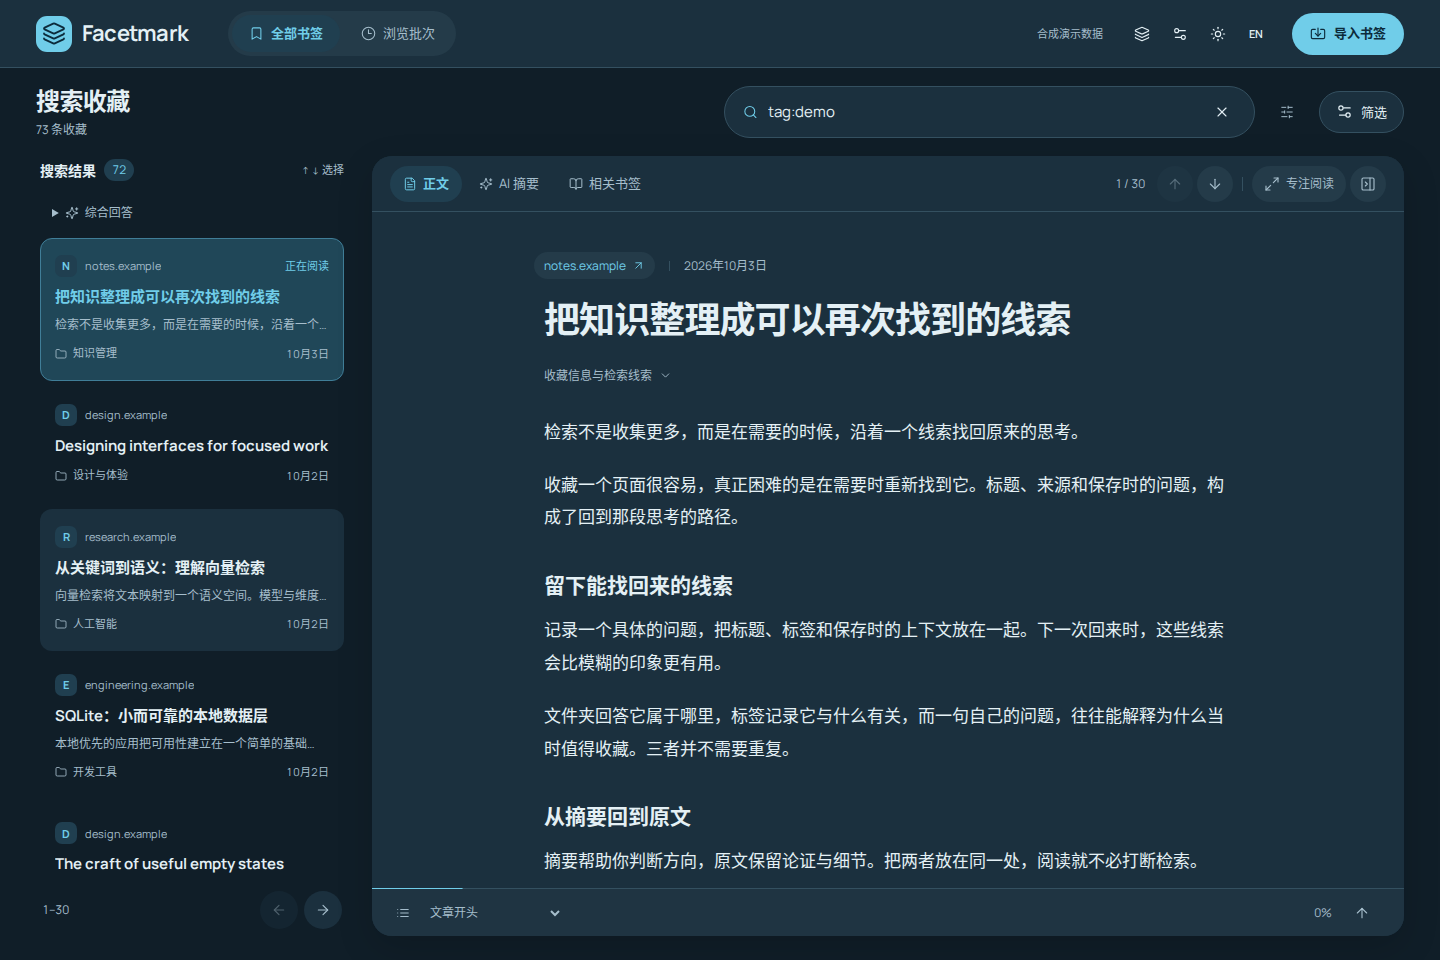
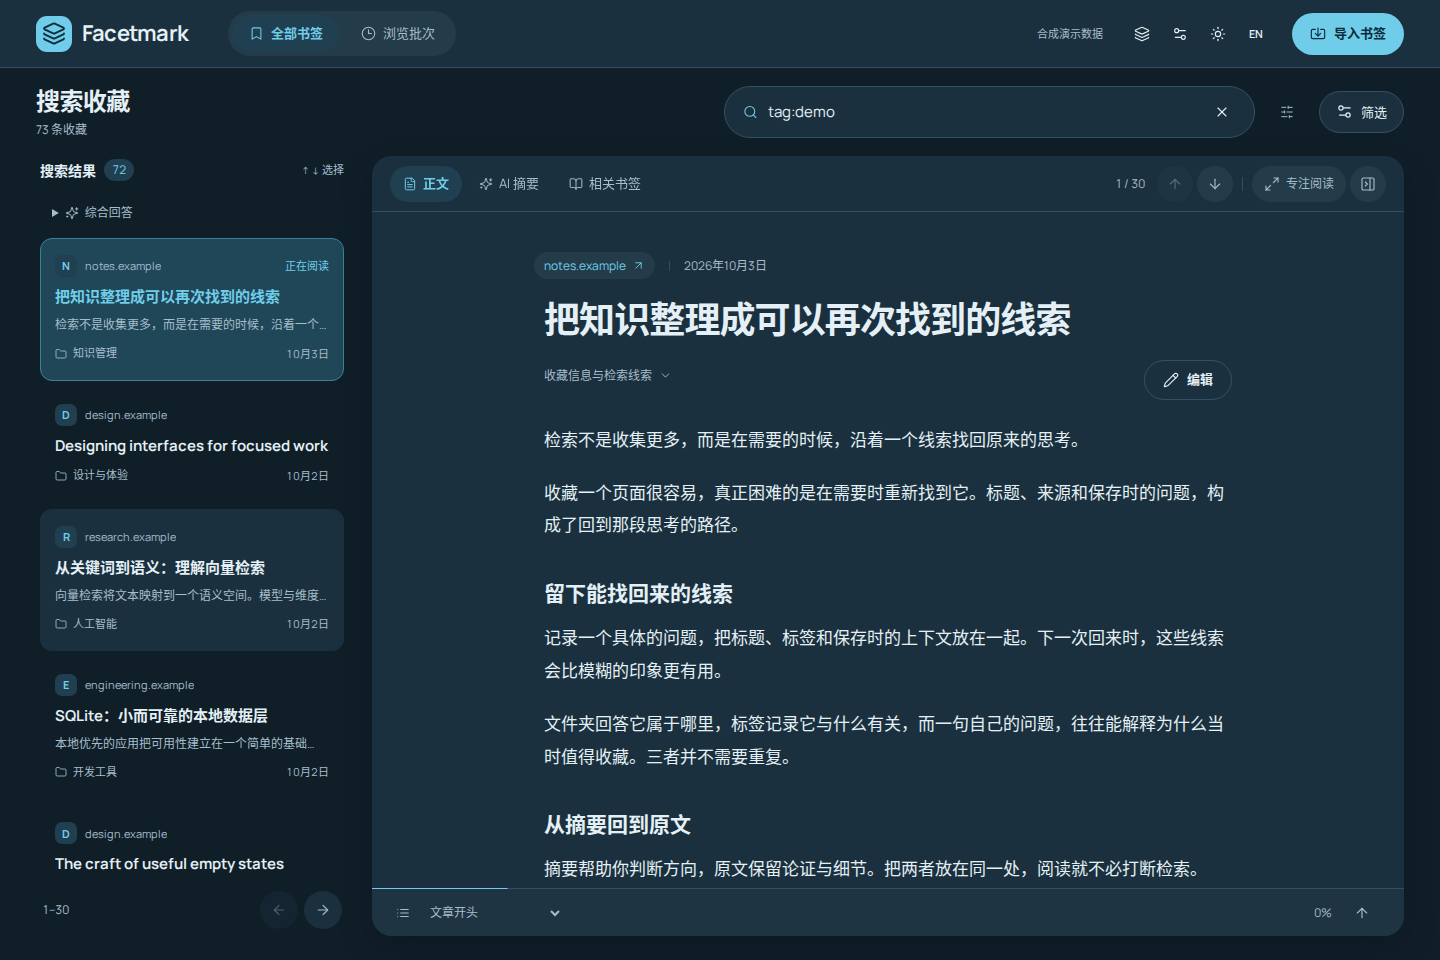
docs: finalize library and sync delivery evidence [skip ci]

diff --git a/docs/desktop-validation.md b/docs/desktop-validation.md
@@ -1,6 +1,97 @@
 # Desktop experience validation
 
-## 2026-10-07: collection and focused-reading redesign (current)
+## 2026-10-08: collection management, reading tasks and shared-folder sync (current)
+
+Application source: `33ff0df5340b31061434deb7e341c612e22feae1`.
+Final browser/test source: `f757f33e00a0a3582e4b656865bddd51d3d4f445`.
+The latter changes only a native-option test assertion; `frontend/src`, `src`,
+`desktop` and `pyproject.toml` are identical. Subsequent documentation and image
+metadata changes do not change the tested application.
+
+The existing white/lake-blue collection and focused reader now support bookmark
+creation/editing/deletion, bulk organization, exact-name folder/tag operations,
+scoped JSON/HTML export, independent text-fetch/summary tasks and shared-folder
+metadata synchronization. Task completion refreshes both the list and cached
+reader, including when the application opens during an already-running task.
+
+- [Experience 37774845284](https://github.com/88lin/facetmark/actions/runs/37774845284):
+  all three jobs passed. TypeScript/Vite, **31/31 Playwright**, **1996 Python passed /
+  1 skipped**, Ruff, wheel/sdist resources, Docker and extension checks passed.
+- [CI 37774856968](https://github.com/88lin/facetmark/actions/runs/37774856968):
+  **all ten jobs passed**, including Linux/Windows × Python 3.10/3.12, browser,
+  web UI, extension, Karakeep contract, wheel and Docker. The real MCP stdio
+  check passed **22/22**.
+- [Visual artifact 11549727814](https://github.com/88lin/facetmark/actions/runs/37774845284/artifacts/11549727814):
+  **42 actual captures**, a **13.64-second H.264 recording**, WEBM, font/scroll
+  diagnostics and source/run provenance. All 42 screenshot SHA-256 hashes were
+  verified locally. Evidence: `.desktop-build/library-verified`.
+- [Windows 37773749998](https://github.com/88lin/facetmark/actions/runs/37773749998):
+  passed on application source `33ff0df`. The offline installer, isolated frozen
+  service, installed WebView import/search/reader return, same-version reinstall,
+  uninstall data retention and parent-process cleanup all passed. Installation began
+  with the runtime absent and installer networking blocked. Three installed
+  1028×749 screenshots were inspected; the reader correctly reports missing body
+  text for the synthetic HTML import. Diagnostics identify the same commit.
+  [Unsigned x64 installer](https://github.com/88lin/facetmark/actions/runs/37773749998/artifacts/11548884372)
+  and [small installed evidence](https://github.com/88lin/facetmark/actions/runs/37773749998/artifacts/11549224103)
+  are available. The installer itself is **276907454 bytes** and was not downloaded.
+  Local small evidence: `.desktop-build/library-windows`. No Windows rebuild was
+  needed for the later test-only assertion change.
+
+Final CI Python matrix counts (each job passed; skips vary by platform/runtime):
+
+| Platform | Python | Passed | Skipped |
+| --- | --- | ---: | ---: |
+| Linux | 3.10 | 1995 | 2 |
+| Linux | 3.12 | 1996 | 1 |
+| Windows | 3.10 | 1965 | 32 |
+| Windows | 3.12 | 1966 | 31 |
+
+The 12 added browser tests cover literal folder/tag persistence, deletion consent
+and cancellation, keyboard bulk selection, scoped downloads and exported body
+text, taxonomy merges/removal, fetch versus summary prerequisites, send consent,
+mobile modal focus/return, failed-save draft retention, task-completion refresh,
+sync preview/apply/persistence, stale-preview rejection, concurrent versions,
+duplicate-URL deletion, synchronization disabling and load-failure retry. Existing
+search, reading, import, model and responsive regressions remain in the 31-test run.
+Synchronization uses temporary synthetic libraries/folders; actual cloud-drive
+transport and external model providers were not exercised.
+
+A fresh independent review of the extension's desktop/mobile evidence found one
+material issue: the tag placeholder had insufficient contrast. The corrected
+`var(--muted)` placeholder measures **5.21:1** in both final-source captures; the
+shortened hint and wrapping guidance remain visible at 390px. The reviewer returned
+**ship** for this fix with no observed introduced regressions. A generic independent
+agent followed the Impeccable contract because the specialized role was unavailable.
+The verdict covers the scored fix, not user aesthetic acceptance, installation or
+frame-by-frame video quality. No external QUALITY BAR or approved comp was supplied.
+The successful-run collection, mobile editing and desktop conflict captures were
+also inspected; application source matches the reviewed correction.
+
+DESIGN.md preserves the existing tokens and sidecar, with scoped prose for destructive
+actions, pill fields in management dialogs and contextual actions inside the reader.
+The four landing workbench screenshots were refreshed from this successful run;
+all retain identical source raster chunks with embedded origin metadata.
+
+The [management guide](library-management.md) records operating limits: sync exchanges
+only bookmark metadata through an existing shared folder; summaries require explicit
+chat consent; JSON export can include reading data, but reimport restores metadata
+only. Karakeep-linked records are protected. Management APIs require pairing, enabled
+administration and a loopback caller. Automatic sync can propagate conflict-free
+deletions after initial approval; incoming changes receive a local database backup.
+Ordinary CRUD has no recycle bin, and there is no one-click restore or history
+compaction. Capacity and recovery procedures are documented in the guide.
+
+Local work remained limited to source editing, lightweight checks and small evidence.
+Builds, browsers, packaging and installation run in Actions. No personal browser
+profile was used, and the installer was not downloaded or run locally. The unsigned
+preview uses manual updates. Hosted Windows Server does not certify Windows 10/11
+hardware, ordinary non-administrator behavior, cross-version upgrades, physical
+whole-machine disconnection or signing trust. Artifacts expire after 14 days.
+The existing draft PR #44 remains the delivery target; no merge, release or Pages
+deployment is included. Earlier sections below are historical.
+
+## 2026-10-07: collection and focused-reading redesign (historical)
 
 The latest user feedback called for stronger frontend design and component craft.
 Application and test source: `0aa3e849ae06d6707fb1f52356eefe6bd774ff4a`.

diff --git a/docs/desktop-handoff.md b/docs/desktop-handoff.md
@@ -1,6 +1,56 @@
 # Facetmark 桌面化与体验升级交接
 
-## 2026-10-07 收藏与专注阅读重设计（当前）
+## 2026-10-08 收藏管理、独立阅读任务与共享文件夹同步（当前）
+
+已完成用户“继续全部完善吧”及明确选择的共享文件夹同步方案。沿用纯白／湖蓝、
+胶囊控件与收藏优先布局；本轮扩展功能，不替换已选定的视觉方向。
+
+- 收藏页可新增、编辑、删除，批量移动或增删标签，按完整名称合并／移除分类，
+  并按书库、分类、当前页或所选范围导出 JSON／HTML。
+- 正文提取不要求模型；独立摘要只要求已测试的聊天模型和本次发送确认。
+  支持任务进度、停止、重新处理，以及完成后列表和阅读缓存刷新。
+- 共享文件夹同步提供变更预览、过期预览保护、多版本及重复网址冲突处理、
+  首次人工确认、可选自动模式、接收变更前的本机 SQLite 备份。
+- 新增／修改网址拒绝嵌入式凭据，正文请求使用受控抓取；Karakeep 关联记录保持受保护。
+
+应用源码：`33ff0df5340b31061434deb7e341c612e22feae1`。
+最终浏览器测试源码：`f757f33e00a0a3582e4b656865bddd51d3d4f445`，仅调整原生禁用选项的
+测试断言。已确认两个提交的 `frontend/src`、`src`、`desktop` 和 `pyproject.toml` 一致；
+后续文档及截图来源提交不改变应用代码。
+
+- [Experience 37774845284](https://github.com/88lin/facetmark/actions/runs/37774845284)：
+  全部通过，31 项浏览器测试、1996 Python / 1 skipped、Ruff、前端构建、
+  wheel/sdist 资源、Docker 和扩展检查通过。
+- [CI 37774856968](https://github.com/88lin/facetmark/actions/runs/37774856968)：
+  十项任务全部通过，覆盖 Linux／Windows × Python 3.10／3.12、浏览器、扩展、
+  Karakeep 契约、分发和 Docker；真实 MCP stdio 检查 22/22 通过。
+- [视觉证据 11549727814](https://github.com/88lin/facetmark/actions/runs/37774845284/artifacts/11549727814)：
+  42 张实际截图及 13.64 秒 MP4，另含 WEBM、字体／滚动诊断和来源记录。
+  已核对全部截图哈希，本机位置 `.desktop-build/library-verified`。
+- [Windows 37773749998](https://github.com/88lin/facetmark/actions/runs/37773749998)：
+  全部通过。运行时初始缺失、安装器网络被阻断时完成离线安装；实际 WebView
+  导入／检索／阅读返回、同版本重装、卸载保留数据、父进程清理和冻结服务检查通过。
+  三张 1028×749 安装后截图已检查，诊断匹配 `33ff0df`。小型证据在
+  `.desktop-build/library-windows`，artifact `11549224103`；未签名 x64 安装包
+  artifact `11548884372`，安装器本体 276907454 字节，未下载到本机。
+- 独立视觉审阅发现的标签提示对比度问题已修复，桌面／390px 截图测得 5.21:1；
+  简短占位符和换行说明保持完整。确认轮给出 ship，仅覆盖这一修正，未发现新增回归。
+  使用通用独立代理执行 Impeccable 契约；未提供外部 QUALITY BAR／comp，不代表用户审美认可。
+- 保留 DESIGN.md 既有 token 和 sidecar，仅补充新弹窗、危险操作和阅读器上下文操作的规则。
+  四张项目展示图来自最终成功运行，保持原始像素数据并嵌入来源元数据。
+
+使用与恢复说明已写入 [收藏管理、阅读处理与设备同步](library-management.md)。重要边界：
+同步只传网址、标题、文件夹、标签和收藏时间，依赖用户已有云盘工具；JSON 可导出正文与摘要，
+但重新导入只恢复书签信息。摘要任务不自动抓取正文，独立阅读任务不等于完整语义索引。
+首次确认后的自动模式会传播无冲突删除；没有回收站、一键数据库恢复或同步历史自动压缩。
+管理接口要求已启用、配对认证及回环调用。实际外部模型、云盘传输和 Windows 10/11 真机
+未覆盖；安装包仍为未签名、手动更新的预览版。
+
+本机只做源码编辑、轻量检查与小型证据取回；构建、浏览器、打包和安装测试均在 Actions。
+未下载或运行大安装包，未接触真实浏览器资料。继续使用原测试分支和 draft PR #44；
+不合并 main、不发布正式版本、不部署 Pages。下面为历史记录。
+
+## 2026-10-07 收藏与专注阅读重设计（历史）
 
 用户再次要求更强的前端设计与组件完成度。当前产品及测试源码：
 `0aa3e849ae06d6707fb1f52356eefe6bd774ff4a`。

diff --git a/docs/landing/assets/workbench-provenance.md b/docs/landing/assets/workbench-provenance.md
@@ -4,16 +4,19 @@ These are actual Facetmark shared React /app screenshots, captured by Playwright
 on a disposable GitHub Actions runner. Repository synthetic data only; no personal
 bookmarks, browser profiles, generated mockups or fabricated service states.
 
-Source: https://github.com/88lin/facetmark/actions/runs/37618229826
+Source: https://github.com/88lin/facetmark/actions/runs/37774845284
 
-Capture and application commit: `0aa3e849ae06d6707fb1f52356eefe6bd774ff4a`
+Capture commit: `f757f33e00a0a3582e4b656865bddd51d3d4f445`
 
-This batch implements the collection and focused-reading redesign within the
-user-pinned white/lake-blue interface: prominent masthead, separate pill search,
-real folder shortcuts, source-first cards, compact supporting index, Manrope,
-cmdk suggestions and a real-heading chapter rail.
-All 19 browser tests passed. Later documentation and image metadata changes
-do not alter the application source. Earlier visual verdicts are historical.
+Application commit: `33ff0df5340b31061434deb7e341c612e22feae1`.
+The capture commit changes only a browser test assertion; application source is identical.
+
+This batch extends the user-pinned white/lake-blue collection and focused reader
+with bookmark management, scoped exports, independent reading tasks and shared-folder
+metadata synchronization. The collection masthead, pill search, source-first cards,
+compact supporting index, Manrope, cmdk suggestions and real-heading chapter rail remain.
+All 31 browser tests passed. Later documentation and image metadata changes do not
+alter the application source. Earlier visual verdicts apply to earlier revisions.
 
 | Website asset | Source artifact file |
 | --- | --- |
@@ -22,14 +25,15 @@ do not alter the application source. Earlier visual verdicts are historical.
 | workbench-zh-light.png | zh-light-1440.png |
 | workbench-zh-dark.png | zh-dark-1440.png |
 
-Viewport: 1440 × 960. Artifact: `facetmark-visual-evidence` (ID `11480239215`).
+Viewport: 1440 × 960. Artifact: `facetmark-visual-evidence` (ID `11549727814`).
 Each PNG embeds the source commit/run, synthetic-data origin and Impeccable origin
 metadata. The artifact's `provenance.json` records dimensions and SHA-256 hashes.
 All four copied PNGs retain identical raster chunks; only provenance metadata
-was added. The 37-capture artifact also contains a 14.08-second interaction recording,
-narrow/dark/long-title/loading/empty/failure cases and font/scroll diagnostics.
+was added. All 42 capture hashes match the manifest. The artifact also contains a
+13.64-second interaction recording, desktop/mobile management and synchronization
+states, narrow/dark/long-title/loading/empty/failure cases and font/scroll diagnostics.
 
-Small local evidence: `.desktop-build/collection-elevated`. These files replace the
-previous capsule-refinement screenshots; prior validation is historical, not acceptance
+Small local evidence: `.desktop-build/library-verified`. These files replace the
+previous collection-redesign screenshots; prior validation is historical, not acceptance
 of the current visual design. Eighteen untouched legacy landing rasters are
 outside this screenshot refresh and retain their existing metadata.

diff --git a/DESIGN.md b/DESIGN.md
@@ -318,9 +318,9 @@ Frontmatter is normative. Base names map to runtime custom properties; each `-da
 - **Deep Blue Ink / Muted Blue Ink** (`ink`, `muted`): titles/prose and subordinate excerpts, metadata and controls.
 - **Cool Rule / Navigation Scrim** (`rule`, `overlay`): fine borders/seams and temporary navigation backdrop. The full-width reader overlay is transparent.
 
-Error Red (`danger`) accompanies explicit failures and recovery. Dark mode retains hierarchy with pale blue accents over deeper surfaces.
+Error Red (`danger`) accompanies explicit failures, recovery and destructive-action warnings. Dark mode retains hierarchy with pale blue accents over deeper surfaces.
 
-**The Lake-blue Selection Rule.** Use white bordered cards in the open collection, then a quiet supporting index with a blue selected entry. Pair selected fill, border and title color; reserve danger color for failures.
+**The Lake-blue Selection Rule.** Use white bordered cards in the open collection, then a quiet supporting index with a blue selected entry. Pair selected fill, border and title color; reserve danger color for failures and destructive actions.
 
 ## Typography
 
@@ -379,6 +379,10 @@ Open cards/import targets use (16px) corners, compact index entries (12px), read
 
 Fields, notices, diagnostics and session rows retain (10px); brand tile (11px); apply/consent/stage panels (12px). Query popup corners are (14px), suggestion rows (10px), category icons circular (30px), and keyboard hints (4px). Chapter links use (4px) corners and a current marker (2px by 16px). The modal reader remains a square full-viewport exception.
 
+Collection-management dialogs extend this system with pill-shaped inputs and selects,
+20px dialog corners, the existing semantic colors and an explicit muted placeholder.
+These scoped form shapes do not replace the incumbent model-setting field tokens.
+
 Lucide SVGs provide stroke icons and the layered brand mark. Source initials identify pages. The open arrow appears on hover/keyboard focus; selected entries show Reading in its place. No selection-edge stripe or decorative imagery is introduced.
 
 ## Components
@@ -427,7 +431,7 @@ GSAP owns tab-marker x/width (180ms, `power3.out`, overwrite `auto`) and interru
 - Do preserve source-first card order and natural heights without compulsory excerpt space.
 - Do use true pill controls and circular icon actions while retaining card, reader and field exceptions.
 - Do keep the index subordinate and preserve query, filters, pagination, collection position and return focus.
-- Do keep controls outside the article scroller and show the focus rail only for real headings.
+- Do keep persistent reader navigation and progress controls outside the article scroller and show the focus rail only for real headings. Contextual bookmark editing and processing actions follow the article information inside the scroller.
 - Do place each model test after essential fields, with options below.
 - Do provide a visible Back to collection control in the full-width narrow reader.
 - Do preserve semantic themes, keyboard access, reduced motion and distinct recovery states.

diff --git a/.impeccable/surfaces/frontend.md b/.impeccable/surfaces/frontend.md
@@ -52,5 +52,15 @@ chat-only summaries. Shared-folder synchronization lives in Settings with a
 change-count table, side-by-side versions, explicit conflict choices and a final
 apply confirmation. Disabled, pending and stale-preview states remain actionable.
 This is an extension of the accepted system, with no replacement visual world.
-Current-source cloud screenshots and review are required for the new surfaces;
-the preceding evidence applies to the earlier collection design only.
+EVIDENCE: Application source `33ff0df5340b31061434deb7e341c612e22feae1` is unchanged
+in test-only `f757f33e00a0a3582e4b656865bddd51d3d4f445`. Experience `37774845284`
+passed 31 browser tests, 1996 Python / 1 skipped, builds and distributions. Its
+42-capture artifact `11549727814` has verified hashes and a 13.64-second recording.
+The extension review found one material tag-placeholder contrast issue; its
+correction measures 5.21:1 at desktop and 390px, with guidance fully visible.
+The independent generic reviewer following the Impeccable contract returned ship
+for that fix, with no introduced regressions observed. No external QUALITY BAR or
+approved comp was provided; this is not user aesthetic acceptance. DESIGN.md retains
+its existing tokens and sidecar with scoped extension prose. Four shipping
+screenshots preserve source raster chunks and carry current origin metadata.
+The preceding evidence applies to the earlier collection design only.

diff --git a/docs/library-management.md b/docs/library-management.md
@@ -2,6 +2,8 @@
 
 本指南介绍共享前端中的操作入口。所有整理操作作用于 Facetmark 书库；导入来源浏览器中的原始书签不会被改写。
 
+这些管理入口面向本机使用：服务须启用管理 API，请求须通过配对令牌认证，且服务接收到的调用连接须来自本机回环地址。设备间同步由各设备运行的本机服务读写共享文件夹完成。
+
 ## 新增、编辑与删除
 
 - 在收藏页选择 **新增收藏**，填写 `http://` 或 `https://` 网址、标题、文件夹和标签。文件夹留空表示未分类；输入标签后按 Enter 添加，标签可以包含空格或逗号。
